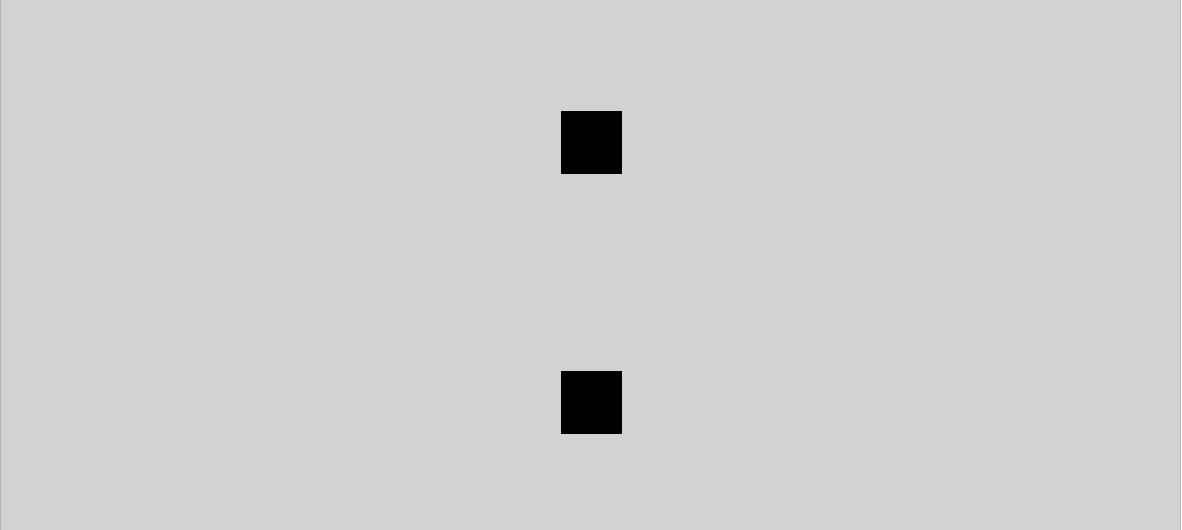
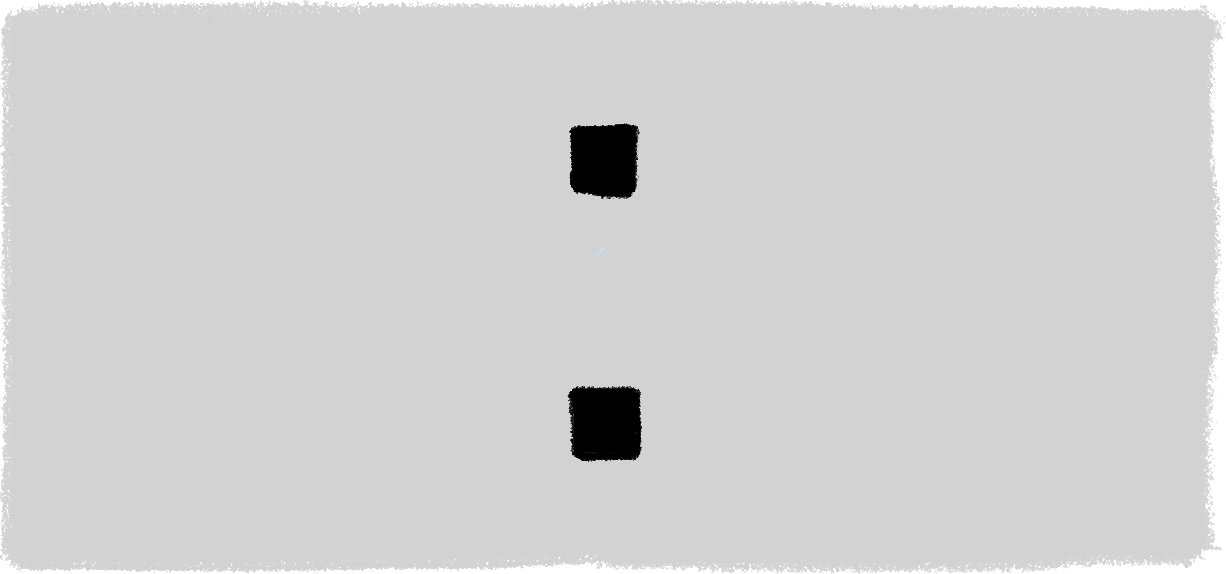
Finished program!

diff --git a/src/DuckTimerViewer.java b/src/DuckTimerViewer.java
@@ -23,8 +23,8 @@ public class DuckTimerViewer extends JFrame implements ActionListener {
         this.d = d;
         screenStatus = 0;
 
-        start = new JButton("Start Game");
-        start.setBounds(460, 400, 180,60);
+        start = new JButton("Start");
+        start.setBounds(450, 250, 300,100);
         start.setActionCommand(START_GAME);
         start.addActionListener(this);
 
@@ -90,7 +90,7 @@ public class DuckTimerViewer extends JFrame implements ActionListener {
 
             // Draws clock
             image = new ImageIcon("Resources/ClockBackground.png").getImage();
-            g.drawImage(image, 380, 100, 420, 200, this);
+            g.drawImage(image, 380, 100, 425, 200, this);
 
             g.setFont(new Font("SansSerif", Font.BOLD, 150));
             if(d.getMinutes() < 10){
@@ -113,13 +113,15 @@ public class DuckTimerViewer extends JFrame implements ActionListener {
             g.drawString("Duck #" + (leader.getNumber() + 1) + " has made " + leader.getLaps() + " laps", 830, 200);
         }
         else if (screenStatus == 4) {
-            image = new ImageIcon("Resources/Opening.png").getImage();
+            image = new ImageIcon("Resources/OverBackground.png").getImage();
             g.drawImage(image, 0, 22, WINDOW_WIDTH, WINDOW_HEIGHT, this);
 
             String winningDuck = String.valueOf(d.getLeader().getNumber() + 1);
-            g.setFont(new Font("SansSerif", Font.BOLD, 25));
-            g.setColor(Color.blue);
-            g.drawString("The winning duck is duck number " + winningDuck + "!", 100, 400);
+            g.setFont(new Font("SansSerif", Font.BOLD, 70));
+            g.setColor(Color.black);
+            g.drawString("Time is up!", 400, 150);
+            g.setFont(new Font("SansSerif", Font.BOLD, 40));
+            g.drawString("The winning duck is duck number " + winningDuck + "!", 200, 370);
         }
         Toolkit.getDefaultToolkit().sync();
     }
